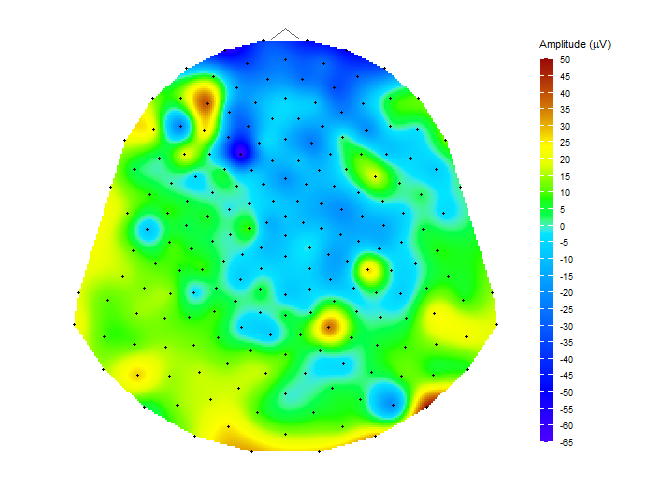
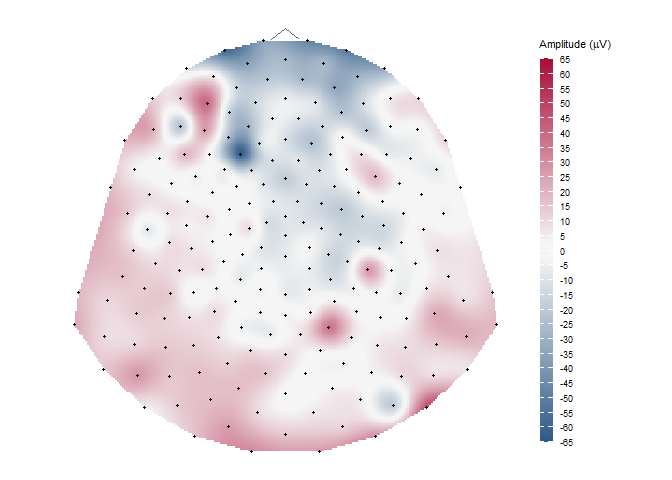
Edit README according to the changes in version 0.3.0

diff --git a/README.md b/README.md
@@ -21,18 +21,19 @@ The package `diegr` includes:
 
 - interactive boxplots (`boxplot_epoch`, `boxplot_subject`,
   `boxplot_rt`)
-- interactive waveforms (`interactive_waveforms`)
+- interactive waveforms (`interactive_waveforms`) and surface plots
+  (`interactive_surfaceplot`, `interactive_surfaceplot_curves`)
 - topographic maps in 2D (`topo_plot`)
 - scalp plots in 3D (`scalp_plot`)
 - functions for computing summary statistics, baseline correction,
-  pointwise and jackknife mean
+  pointwise and jackknife means
   (`summary_stats_rt`,`baseline_correction`, `compute_mean`)
-- functions for easy selection of subdata or region of interest
+- functions for easy selection of data subsets or regions of interest
   (`pick_data`, `pick_region`)
-- functions for plotting the mean with pointwise confidence interval
+- functions for plotting the mean with pointwise confidence intervals
   (`plot_time_mean`, `plot_topo_mean`)
-- animations of time course of the raw signal or the average in 2D and
-  3D (`animate_topo`, `animate_topo_mean`, `animate_scalp`)
+- animations of time course of raw signals or averages in 2D and 3D
+  (`animate_topo`, `animate_topo_mean`, `animate_scalp`)
 
 ## Installation
 
@@ -51,41 +52,54 @@ pak::pak("gerslovaz/diegr")
 
 ## Data
 
-Because of large volumes of data obtained from HD-EEG measurements, the
+Due to the large volumes of data obtained from HD-EEG measurements, the
 package allows users to work directly with database tables (in addition
-to common formats such as data frames or tibbles). Such a procedure is
-more efficient in terms of memory usage.
+to common formats such as data frames or tibbles). This approach is much
+more memory-efficient.
 
 The database you want to use as input to `diegr` functions must contain
 columns with the following structure:
 
-- `group` - ID of groups,
-- `subject` - ID of subjects,
+- `group` - group IDs,
+- `subject` - subject IDs,
 - `sensor` - sensor labels,
 - `epoch` - epoch numbers,
-- `condition` - labels of experimental condition,
-- `time` - numbers of time points (as sampling points, not in ms),
-- `signal` - the EEG signal amplitude in microvolts (in most functions
-  it is possible to set the name of the column containing the amplitude
+- `condition` - experimental condition labels,
+- `time` - numbers of time points (as sampling indices, not in ms),
+- `signal` - the EEG signal amplitude in microvolts (in most functions,
+  the name of the column containing the amplitude can be customized
   arbitrarily).
 
 Note: It is not necessary for the data to contain all variables, but if
 it does, they must be named according to the structure presented above.
+You can use the `check_structure()` function, which checks the data
+structure and prints the inferred hierarchy.
 
-The package contains some included training datasets:
+The package includes several training datasets:
 
 - `epochdata`: epoched HD-EEG data (anonymized short slice from big
   HD-EEG study presented in Madetko-Alster, 2025) for 2 subjects and 204
-  selected sensors in 50 time points,
-- `HCGSN256`: a list with Cartesian coordinates of HD-EEG sensor
-  positions in 3D space on the scalp surface and their projection into
-  2D space
+  selected sensors in 50 time points (measured using the EGI HCGSN256
+  system),
 - `rtdata`: response times (time between stimulus presentation and
   pressing the button) from the experiment involving a simple visual
   motor task (anonymized short slice from big HD-EEG study presented in
-  Madetko-Alster, 2025).
+  Madetko-Alster, 2025)
 
-For more information about the structure of built-in data see the
+as well as datasets containing sensor position coordinates:
+
+- `HCGSN256`: a list with Cartesian coordinates of HD-EEG sensor
+  positions in 3D space on the scalp surface and their projection into
+  2D space according to the EGI HCGSN256 template,
+- `biosemi128` and `biosemi256`: lists with Cartesian coordinates of
+  HD-EEG sensor positions in 3D space on the scalp surface and their
+  projection into 2D space according to the BioSemi system with 128 and
+  256 electrodes,
+- `system1005`: a list with Cartesian coordinates of HD-EEG sensor
+  positions in 3D space on the scalp surface and their projection into
+  2D space according to the standard 10-05 system.
+
+For more information about the structure of the built-in data see the
 package vignette `vignette("diegr", package = "diegr")`.
 
 ## Quick examples
@@ -93,7 +107,8 @@ package vignette `vignette("diegr", package = "diegr")`.
 #### Interactive boxplot
 
 This is a basic example which shows how to plot interactive epoch
-boxplots from chosen electrode in different time points for one subject:
+boxplots from a chosen electrode at different time points for one
+subject:
 
 ``` r
 library(diegr)
@@ -109,14 +124,17 @@ boxplot_epoch(amplitude = "signal", time_lim = c(10:20))
 <img src="./man/figures/README-boxplot.png" alt="" width="100%" />
 
 Note: The README format does not allow the inclusion of `plotly`
-interactive elements, only the static preview of the result is shown.
+interactive elements, therefore, only a static preview of the result is
+shown.
 
 #### Topographic map
 
 ``` r
 data("HCGSN256")
 # creating a mesh
-M1 <- point_mesh(dimension = 2, n = 30000, type = "polygon", sensor_select = unique(epochdata$sensor))
+M1 <- point_mesh(dimension = 2, n = 30000, type = "polygon",
+                 template = "HCGSN256", 
+                 sensor_select = unique(epochdata$sensor))
 # filtering a subset of data to display 
 data_short <- epochdata |>
   pick_data(subject_rg = 1, time_rg = 15, epoch_rg = 10)
@@ -128,11 +146,11 @@ topo_plot(data_short, amplitude = "signal", mesh = M1)
 
 <img src="man/figures/README-topoplot-1.png" alt="" width="100%" />
 
-#### Computing and displaying the average in time domain
+#### Computing and displaying the average in the time domain
 
-Compute the average signal for subject 2 from the channels E65 and E34
-(exclude the oulier epochs 14 and 15) and then display it along with CI
-bounds (use plot_time_mean conditioned by sensor)
+Compute the average signal for subject 2 from channels E65 and E34
+(excluding the oulier epochs 14 and 15) and then display it along with
+CI bounds (using `plot_time_mean()` conditioned by sensor)
 
 ``` r
 # extract required data

diff --git a/NEWS.md b/NEWS.md
@@ -3,6 +3,7 @@
 * Added functions for creating interactive surface plots and checking data structure.
 * Added new sensor templates: BioSemi 128, BioSemi 256, and system 10-05.
 * Updated graphical functions to ensure compatibility with the new templates.
+* Added metadata to computing and graphic functions.
 * Changed default palette in `create_scale()` to a perceptually uniform `"redblue"` scale and added range symmetrization around zero.
 * Updated dealing with `NA` values within `compute_mean()`, `outliers_epoch()` and `baseline_correction()`.
 * Added a fallback to `MASS::ginv()` for ill-conditioned interpolation matrices.
